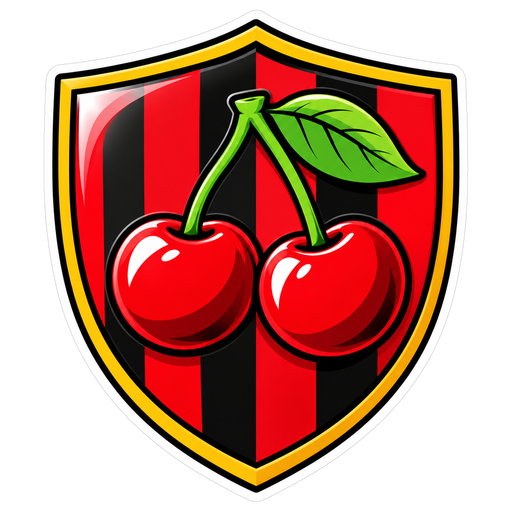
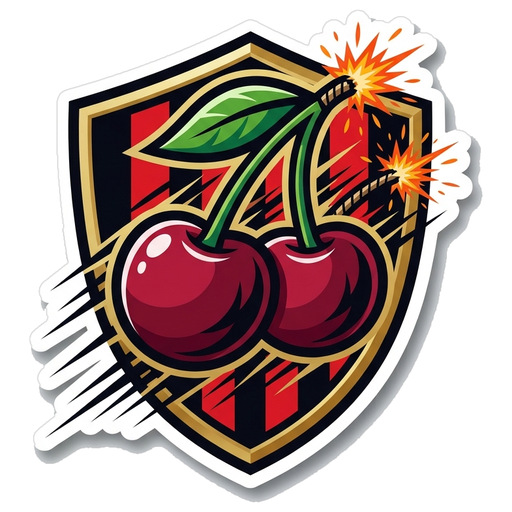
Club crests v5: all 26 clubs (19 EPL + GAL BVB NAP BRU SCP HEA CEL) as cut-out PNG stickers

diff --git a/frontend/src/data/shields.ts b/frontend/src/data/shields.ts
@@ -1,11 +1,11 @@
 // Shields for clubs outside the Premier League, keyed by the exact name the sheet uses (ESPN spelling).
 // Simple colour shields in the club colours, not the clubs' crests. Premier League shields come from avatars.json.
 export const EXTRA_SHIELDS: Record<string, string> = {
-  'Galatasaray': '/avatars/clubs/UCL_GAL.svg',
-  'Borussia Dortmund': '/avatars/clubs/UCL_BVB.svg',
-  'Napoli': '/avatars/clubs/UCL_NAP.svg',
-  'Club Brugge': '/avatars/clubs/UCL_BRU.svg',
-  'Sporting CP': '/avatars/clubs/UCL_SCP.svg',
-  'Heart of Midlothian': '/avatars/clubs/SCO_HEA.svg',
-  'Celtic': '/avatars/clubs/SCO_CEL.svg',
+  'Galatasaray': '/avatars/clubs/UCL_GAL.png',
+  'Borussia Dortmund': '/avatars/clubs/UCL_BVB.png',
+  'Napoli': '/avatars/clubs/UCL_NAP.png',
+  'Club Brugge': '/avatars/clubs/UCL_BRU.png',
+  'Sporting CP': '/avatars/clubs/UCL_SCP.png',
+  'Heart of Midlothian': '/avatars/clubs/SCO_HEA.png',
+  'Celtic': '/avatars/clubs/SCO_CEL.png',
 }
